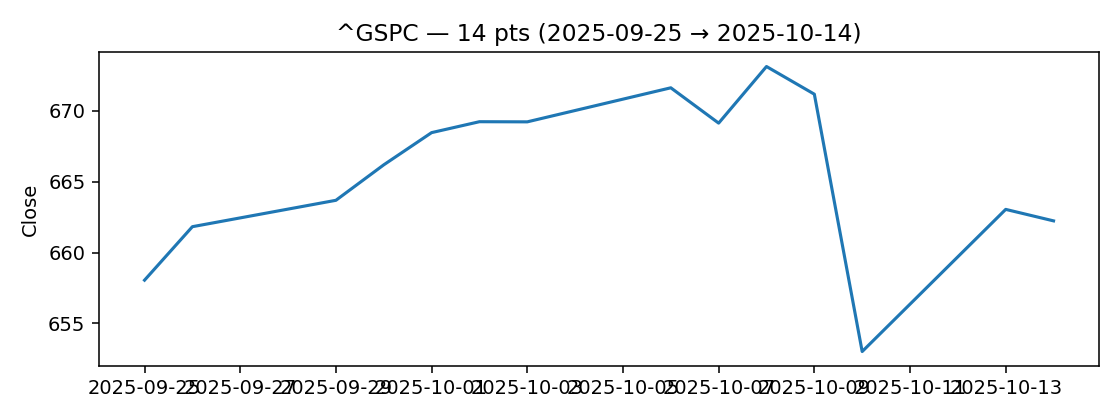
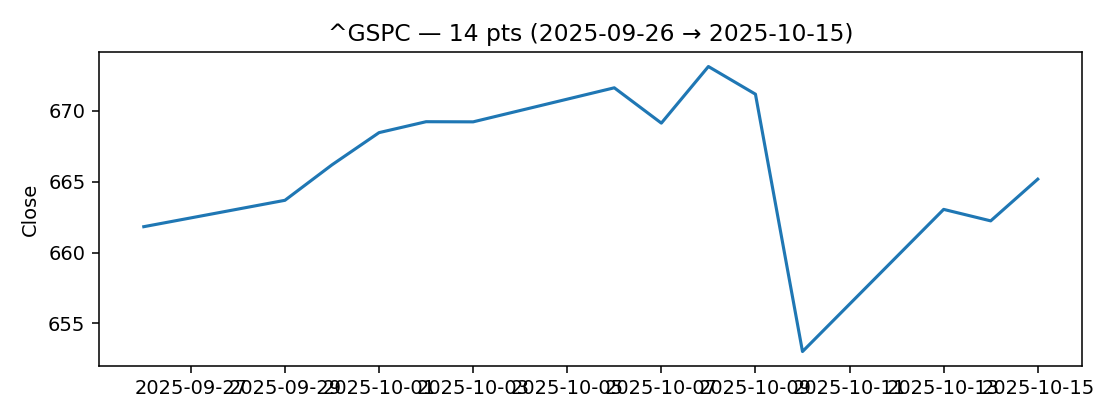
chore: update daily report 2025-10-16 08:45

diff --git a/docs/daily_report.html b/docs/daily_report.html
@@ -108,7 +108,7 @@
   <header>
     <div>
       <h1>Daily Study & News Companion</h1>
-      <div class="sub">2025-10-15 08:11 · TZ: CST</div>
+      <div class="sub">2025-10-16 08:29 · TZ: CST</div>
     </div>
     <button class="btn" id="themeBtn">🌓 Tema</button>
   </header>
@@ -150,11 +150,11 @@
           </div>
           <div class="mkt-body">
             <div class="metrics-row">
-          <div class="kv"><span>Last</span><b>216.39</b></div>
-          <div class="kv"><span>d/d</span><b class="down">-0.81%</b></div>
-          <div class="kv"><span>Mín</span><b>216.37</b></div>
+          <div class="kv"><span>Last</span><b>215.57</b></div>
+          <div class="kv"><span>d/d</span><b class="down">-1.92%</b></div>
+          <div class="kv"><span>Mín</span><b>215.57</b></div>
           <div class="kv"><span>Máx</span><b>227.74</b></div>
-          <div class="kv"><span>σ</span><b>2.98</b></div>
+          <div class="kv"><span>σ</span><b>3.20</b></div>
         </div>
             <div class="chart"><img src="charts/AMZN_close.png" alt="AMZN chart" loading="lazy"/></div>
           </div>
@@ -167,11 +167,11 @@
           </div>
           <div class="mkt-body">
             <div class="metrics-row">
-          <div class="kv"><span>Last</span><b>513.57</b></div>
-          <div class="kv"><span>d/d</span><b class="up">1.29%</b></div>
-          <div class="kv"><span>Mín</span><b>507.03</b></div>
+          <div class="kv"><span>Last</span><b>513.43</b></div>
+          <div class="kv"><span>d/d</span><b class="up">0.39%</b></div>
+          <div class="kv"><span>Mín</span><b>510.96</b></div>
           <div class="kv"><span>Máx</span><b>528.57</b></div>
-          <div class="kv"><span>σ</span><b>5.82</b></div>
+          <div class="kv"><span>σ</span><b>5.22</b></div>
         </div>
             <div class="chart"><img src="charts/MSFT_close.png" alt="MSFT chart" loading="lazy"/></div>
           </div>
@@ -184,30 +184,13 @@
           </div>
           <div class="mkt-body">
             <div class="metrics-row">
-          <div class="kv"><span>Last</span><b>180.03</b></div>
-          <div class="kv"><span>d/d</span><b class="up">1.32%</b></div>
-          <div class="kv"><span>Mín</span><b>177.69</b></div>
+          <div class="kv"><span>Last</span><b>179.83</b></div>
+          <div class="kv"><span>d/d</span><b class="up">0.92%</b></div>
+          <div class="kv"><span>Mín</span><b>178.19</b></div>
           <div class="kv"><span>Máx</span><b>192.57</b></div>
-          <div class="kv"><span>σ</span><b>4.25</b></div>
+          <div class="kv"><span>σ</span><b>4.01</b></div>
         </div>
             <div class="chart"><img src="charts/NVDA_close.png" alt="NVDA chart" loading="lazy"/></div>
-          </div>
-        </div>
-        
-        <div class="mkt-card">
-          <div class="mkt-head">
-            <div class="ticker">TSLA</div>
-            <button class="mini pill" onclick="this.closest('.mkt-card').classList.toggle('big')">↕</button>
-          </div>
-          <div class="mkt-body">
-            <div class="metrics-row">
-          <div class="kv"><span>Last</span><b>429.24</b></div>
-          <div class="kv"><span>d/d</span><b class="up">1.38%</b></div>
-          <div class="kv"><span>Mín</span><b>413.49</b></div>
-          <div class="kv"><span>Máx</span><b>459.46</b></div>
-          <div class="kv"><span>σ</span><b>11.18</b></div>
-        </div>
-            <div class="chart"><img src="charts/TSLA_close.png" alt="TSLA chart" loading="lazy"/></div>
           </div>
         </div>
         
@@ -218,11 +201,11 @@
           </div>
           <div class="mkt-body">
             <div class="metrics-row">
-          <div class="kv"><span>Last</span><b>662.23</b></div>
-          <div class="kv"><span>d/d</span><b class="up">0.64%</b></div>
+          <div class="kv"><span>Last</span><b>665.17</b></div>
+          <div class="kv"><span>d/d</span><b class="up">0.51%</b></div>
           <div class="kv"><span>Mín</span><b>653.02</b></div>
           <div class="kv"><span>Máx</span><b>673.11</b></div>
-          <div class="kv"><span>σ</span><b>5.49</b></div>
+          <div class="kv"><span>σ</span><b>5.07</b></div>
         </div>
             <div class="chart"><img src="charts/^GSPC_close.png" alt="^GSPC chart" loading="lazy"/></div>
           </div>
@@ -250,38 +233,38 @@
             <ul class="news-list">
               <li class="news-item" data-topic="AI">
                 <span class="dot"></span>
-                <a href="https://www.bloomberg.com/news/articles/2025-10-15/walmart-on-path-to-trillion-dollar-status-after-openai-alliance" target="_blank" rel="noreferrer">Walmart on Path to Trillion Dollar Status After OpenAI Alliance</a>
-                <div class="meta">2025-10-15 13:10 · <span class="src">Janet Freund</span></div>
+                <a href="https://www.bloomberg.com/news/articles/2025-10-16/uber-giving-some-us-drivers-option-to-earn-money-from-tasks-like-uploading-menus" target="_blank" rel="noreferrer">Uber Launches Data Tasks as Option for Some US Drivers to Earn Money</a>
+                <div class="meta">2025-10-16 13:29 · <span class="src">Natalie Lung</span></div>
               </li>
             
               <li class="news-item" data-topic="AI">
                 <span class="dot"></span>
-                <a href="https://www.bloomberg.com/news/articles/2025-10-15/bofa-s-four-employee-decline-suggests-bankers-jobs-safe-so-far" target="_blank" rel="noreferrer">BofA’s Four-Employee Decline Suggests Bankers’ Jobs Safe So Far</a>
-                <div class="meta">2025-10-15 12:12 · <span class="src">Jennifer Surane</span></div>
+                <a href="https://www.bloomberg.com/news/articles/2025-10-16/microsoft-wants-us-talking-to-windows-11-with-new-ai-features" target="_blank" rel="noreferrer">Microsoft Wants Us Talking to Windows 11 With New AI Features</a>
+                <div class="meta">2025-10-16 13:00 · <span class="src">Brody Ford, Matt Day</span></div>
               </li>
             
               <li class="news-item" data-topic="AI">
                 <span class="dot"></span>
-                <a href="https://www.bloomberg.com/news/articles/2025-10-15/nvidia-upgraded-at-hsbc-as-ai-suggests-upside-of-nearly-80" target="_blank" rel="noreferrer">Nvidia Upgraded as HSBC Sees AI Driving Nearly 80% Upside</a>
-                <div class="meta">2025-10-15 11:55 · <span class="src">Ryan Vlastelica</span></div>
+                <a href="https://www.bloomberg.com/news/articles/2025-10-16/intel-amd-equity-giveaways-send-stocks-soaring-despite-dilution" target="_blank" rel="noreferrer">Intel, AMD Equity Giveaways Send Stocks Soaring Despite Dilution</a>
+                <div class="meta">2025-10-16 10:48 · <span class="src">Jeran Wittenstein, Carmen Reinicke</span></div>
               </li>
             
               <li class="news-item" data-topic="AI">
                 <span class="dot"></span>
-                <a href="https://www.bloomberg.com/news/articles/2025-10-15/nuclear-startup-to-deploy-pilot-microreactor-at-texas-a-m-campus" target="_blank" rel="noreferrer">Nuclear Startup to Deploy Pilot Microreactor at Texas A&amp;M Campus</a>
-                <div class="meta">2025-10-15 10:00 · <span class="src">Naureen S Malik</span></div>
+                <a href="https://www.bloomberg.com/news/articles/2025-10-16/infosys-narrows-revenue-outlook-as-clients-resume-it-spending" target="_blank" rel="noreferrer">Infosys Lifts Sales Outlook on Hopes of Rebound in IT Spends</a>
+                <div class="meta">2025-10-16 10:48 · <span class="src">Sankalp Phartiyal</span></div>
               </li>
             
               <li class="news-item" data-topic="AI">
                 <span class="dot"></span>
-                <a href="https://www.bloomberg.com/news/articles/2025-10-15/nscale-plans-to-build-massive-texas-ai-data-center-for-microsoft" target="_blank" rel="noreferrer">Microsoft Cuts Fourth Nscale Deal With Texas AI Data Center</a>
-                <div class="meta">2025-10-15 08:28 · <span class="src">Mark Bergen</span></div>
+                <a href="https://www.bloomberg.com/news/articles/2025-10-16/nvidia-partners-in-2-9-billion-australia-data-center-drive" target="_blank" rel="noreferrer">Nvidia Partners in $2.9 Billion Australia Data Center Drive</a>
+                <div class="meta">2025-10-16 04:40 · <span class="src">Keira Wright</span></div>
               </li>
             
               <li class="news-item" data-topic="AI">
                 <span class="dot"></span>
-                <a href="https://www.bloomberg.com/news/articles/2025-10-15/asml-orders-beat-expectations-as-ai-arms-race-boosts-demand" target="_blank" rel="noreferrer">ASML Orders for Cutting-Edge Machines Boom as AI Fuels Demand</a>
-                <div class="meta">2025-10-15 05:04 · <span class="src">Dasha Afanasieva, Sarah Jacob</span></div>
+                <a href="https://www.bloomberg.com/news/articles/2025-10-15/ken-griffin-says-genai-fails-to-help-hedge-funds-produce-alpha" target="_blank" rel="noreferrer">Griffin Says GenAI Fails to Help Hedge Funds Beat Markets</a>
+                <div class="meta">2025-10-15 23:10 · <span class="src">Hema Parmar</span></div>
               </li>
             </ul>
           </div>
@@ -291,38 +274,38 @@
             <ul class="news-list">
               <li class="news-item" data-topic="Fintech">
                 <span class="dot"></span>
-                <a href="https://www.bloomberg.com/news/articles/2025-10-15/us-stocks-rise-as-solid-bank-earnings-overshadow-trade-war-fears" target="_blank" rel="noreferrer">US Stocks Rise as Solid Bank Earnings Overshadow Trade War Fears</a>
-                <div class="meta">2025-10-15 13:55 · <span class="src">Joel Leon</span></div>
+                <a href="https://www.bloomberg.com/news/videos/2025-10-16/fed-s-waller-on-careful-rate-cuts-labor-market-ai-video" target="_blank" rel="noreferrer">Fed’s Waller on Careful Rate Cuts, Labor Market Concerns, AI</a>
+                <div class="meta">2025-10-16 12:46 · <span class="src">www.bloomberg.com</span></div>
               </li>
             
               <li class="news-item" data-topic="Fintech">
                 <span class="dot"></span>
-                <a href="https://www.bloomberg.com/news/videos/2025-10-15/morgan-stanley-bofa-both-beat-earnings-estimates-video" target="_blank" rel="noreferrer">Morgan Stanley, Bank of America Beat Estimates as Trading Activity Surges</a>
-                <div class="meta">2025-10-15 13:43 · <span class="src">www.bloomberg.com</span></div>
+                <a href="https://www.bloomberg.com/news/articles/2025-10-16/varde-backed-spanish-bank-plans-srt-tied-to-credit-card-loans" target="_blank" rel="noreferrer">Varde-Backed Spanish Bank Plans SRT Tied to Credit Card Loans</a>
+                <div class="meta">2025-10-16 12:19 · <span class="src">Esteban Duarte, Jorge Zuloaga</span></div>
               </li>
             
               <li class="news-item" data-topic="Fintech">
                 <span class="dot"></span>
-                <a href="https://www.bloomberg.com/news/articles/2025-10-15/dubai-investments-said-to-tap-hsbc-citi-emirates-nbd-for-unit-s-ipo" target="_blank" rel="noreferrer">Dubai Investments Taps HSBC, Citi, Emirates NBD for Unit’s IPO</a>
-                <div class="meta">2025-10-15 12:21 · <span class="src">Laura Gardner Cuesta, Zainab Fattah</span></div>
+                <a href="https://www.bloomberg.com/news/articles/2025-10-16/ecb-s-dolenc-sees-less-pronounced-inflation-undershoot-next-year" target="_blank" rel="noreferrer">ECB’s Dolenc Sees Less-Pronounced Inflation Undershoot Next Year</a>
+                <div class="meta">2025-10-16 12:16 · <span class="src">Mark Schroers, Alexander Weber</span></div>
               </li>
             
               <li class="news-item" data-topic="Fintech">
                 <span class="dot"></span>
-                <a href="https://www.bloomberg.com/news/articles/2025-10-15/jpmorgan-becomes-latest-wall-street-bank-to-get-saudi-hq-license" target="_blank" rel="noreferrer">JPMorgan Is Latest Wall Street Bank to Get Saudi HQ License</a>
-                <div class="meta">2025-10-15 10:14 · <span class="src">Laura Gardner Cuesta, Nicolas Parasie</span></div>
+                <a href="https://www.bloomberg.com/news/videos/2025-10-16/fed-s-waller-calls-for-cautious-approach-to-rate-cuts-video" target="_blank" rel="noreferrer">Fed’s Waller Calls for Cautious Approach to Rate Cuts</a>
+                <div class="meta">2025-10-16 12:08 · <span class="src">www.bloomberg.com</span></div>
               </li>
             
               <li class="news-item" data-topic="Fintech">
                 <span class="dot"></span>
-                <a href="https://www.bloomberg.com/news/articles/2025-10-15/rbi-sees-rupee-under-speculative-attack-will-intervene-further" target="_blank" rel="noreferrer">RBI Sees Rupee Under Speculative Attack, Will Intervene Further</a>
-                <div class="meta">2025-10-15 09:03 · <span class="src">Anup Roy</span></div>
+                <a href="https://www.bloomberg.com/news/articles/2025-10-16/fintech-glow-raises-65-million-backed-by-apollo-cable-cowboy-malone" target="_blank" rel="noreferrer">Fintech Glow Raises $65 Million Backed by Apollo, ‘Cable Cowboy’ Malone</a>
+                <div class="meta">2025-10-16 11:00 · <span class="src">Jillian Deutsch</span></div>
               </li>
             
               <li class="news-item" data-topic="Fintech">
                 <span class="dot"></span>
-                <a href="https://www.bloomberg.com/news/articles/2025-10-15/funds-chase-new-private-credit-money-for-emerging-market-bets" target="_blank" rel="noreferrer">Private Credit Gold Rush Is Spreading to Emerging Markets</a>
-                <div class="meta">2025-10-15 06:30 · <span class="src">Selcuk Gokoluk</span></div>
+                <a href="https://www.bloomberg.com/news/articles/2025-10-15/fcc-moves-to-boot-major-hong-kong-carrier-from-us-networks" target="_blank" rel="noreferrer">US Weighs Ban on Richard Li’s HKT as China Tensions Rise</a>
+                <div class="meta">2025-10-15 22:01 · <span class="src">Shirley Zhao, Kelcee Griffis</span></div>
               </li>
             </ul>
           </div>
@@ -332,38 +315,38 @@
             <ul class="news-list">
               <li class="news-item" data-topic="General">
                 <span class="dot"></span>
-                <a href="https://www.bloomberg.com/news/articles/2025-10-15/tycoon-benko-sentenced-to-two-years-for-insurance-fraud-afp" target="_blank" rel="noreferrer">Tycoon Benko Sentenced to Two Years For Insurance Fraud: AFP</a>
-                <div class="meta">2025-10-15 13:39 · <span class="src">Jeremy Hodges</span></div>
+                <a href="https://www.bloomberg.com/news/articles/2025-10-16/europe-s-ipo-wave-puts-discount-math-at-top-of-buyer-checklists" target="_blank" rel="noreferrer">Europe’s IPO Wave Puts Discount Math at Top of Buyer Checklists</a>
+                <div class="meta">2025-10-16 13:28 · <span class="src">Pablo Mayo Cerqueiro</span></div>
               </li>
             
               <li class="news-item" data-topic="General">
                 <span class="dot"></span>
-                <a href="https://www.bloomberg.com/news/videos/2025-10-15/pantheon-s-debono-on-french-markets-french-elections-video" target="_blank" rel="noreferrer">Pantheon's Debono: Election Doesn't Mean French Markets Will Get Back on Track</a>
-                <div class="meta">2025-10-15 13:39 · <span class="src">www.bloomberg.com</span></div>
+                <a href="https://www.bloomberg.com/news/articles/2025-10-16/miami-office-for-citadel-microsoft-gains-25-000-members-club" target="_blank" rel="noreferrer">Miami Office for Citadel, Microsoft Gains $25,000 Members Club</a>
+                <div class="meta">2025-10-16 13:14 · <span class="src">Anna J Kaiser</span></div>
               </li>
             
               <li class="news-item" data-topic="General">
                 <span class="dot"></span>
-                <a href="https://www.bloomberg.com/news/articles/2025-10-15/uk-and-china-locked-in-stand-off-over-each-other-s-embassy-plans" target="_blank" rel="noreferrer">UK and China Locked in Stand-Off Over Each Other’s Embassy Plans</a>
-                <div class="meta">2025-10-15 13:39 · <span class="src">Ellen Milligan</span></div>
+                <a href="https://www.bloomberg.com/news/videos/2025-10-16/us-energy-secretary-chris-wright-on-rising-energy-costs-video" target="_blank" rel="noreferrer">AI Infrastructure Will Make Electricity More Affordable, US Energy Secretary Says</a>
+                <div class="meta">2025-10-16 13:12 · <span class="src">www.bloomberg.com</span></div>
               </li>
             
               <li class="news-item" data-topic="General">
                 <span class="dot"></span>
-                <a href="https://www.bloomberg.com/news/articles/2025-10-15/blackrock-s-gip-buys-aligned-data-centers-in-40-billion-ai-bet" target="_blank" rel="noreferrer">BlackRock, MGX Make $40 Billion Bet on AI Boom With Aligned Data Centers Deal</a>
-                <div class="meta">2025-10-15 11:30 · <span class="src">Ryan Gould, Michelle F Davis, Matthew Monks, Manuel Baigorri</span></div>
+                <a href="https://www.bloomberg.com/news/articles/2025-10-16/fed-s-waller-calls-for-careful-rate-cuts-to-support-labor-market" target="_blank" rel="noreferrer">Fed’s Waller Calls for Careful Cuts, Miran Wants Bigger Move</a>
+                <div class="meta">2025-10-16 11:53 · <span class="src">Jonnelle Marte, Maria Eloisa Capurro, Amara Omeokwe</span></div>
               </li>
             
               <li class="news-item" data-topic="General">
                 <span class="dot"></span>
-                <a href="https://www.bloomberg.com/news/articles/2025-10-15/us-two-year-yields-near-lowest-since-2022-on-rates-trade-angst" target="_blank" rel="noreferrer">US Two-Year Yields Hover Near Lows Seen in April Tariff Turmoil</a>
-                <div class="meta">2025-10-15 10:17 · <span class="src">Naomi Tajitsu</span></div>
+                <a href="https://www.bloomberg.com/news/articles/2025-10-16/indian-refiners-to-take-less-russian-oil-after-trump-comments" target="_blank" rel="noreferrer">India Refiners to Trim Russia Oil Buying as Trump Sows Confusion</a>
+                <div class="meta">2025-10-16 05:37 · <span class="src">Rakesh Sharma, Yongchang Chin</span></div>
               </li>
             
               <li class="news-item" data-topic="General">
                 <span class="dot"></span>
-                <a href="https://www.bloomberg.com/news/articles/2025-10-14/stock-market-today-dow-s-p-live-updates" target="_blank" rel="noreferrer">Stocks Extend Gains on Bessent’s Trade Remarks: Markets Wrap</a>
-                <div class="meta">2025-10-14 22:21 · <span class="src">Rita Nazareth</span></div>
+                <a href="https://www.bloomberg.com/news/articles/2025-10-15/stock-market-today-dow-s-p-live-updates" target="_blank" rel="noreferrer">Stocks Get Tech Boost as TSMC Rekindles AI Wagers: Markets Wrap</a>
+                <div class="meta">2025-10-15 22:27 · <span class="src">Rita Nazareth</span></div>
               </li>
             </ul>
           </div>
@@ -373,38 +356,38 @@
             <ul class="news-list">
               <li class="news-item" data-topic="Machine Learning">
                 <span class="dot"></span>
-                <a href="https://www.bloomberg.com/news/articles/2025-10-15/russian-fuel-exports-sink-to-fresh-wartime-low-on-refinery-woes" target="_blank" rel="noreferrer">Russian Fuel Exports Sink to Fresh Wartime Low on Refinery Woes</a>
-                <div class="meta">2025-10-15 13:35 · <span class="src">Prejula Prem</span></div>
+                <a href="https://www.bloomberg.com/news/videos/2025-10-16/premium-travel-is-driving-demand-united-airlines-ceo-says" target="_blank" rel="noreferrer">Premium Travel Is Driving Demand, United Airlines CEO Says</a>
+                <div class="meta">2025-10-16 13:22 · <span class="src">www.bloomberg.com</span></div>
               </li>
             
               <li class="news-item" data-topic="Machine Learning">
                 <span class="dot"></span>
-                <a href="https://www.bloomberg.com/news/articles/2025-10-15/global-public-debt-set-to-top-post-wwii-levels-by-2029-imf-says" target="_blank" rel="noreferrer">Global Public Debt Set to Top Post-WWII Levels by 2029, IMF Says</a>
-                <div class="meta">2025-10-15 12:45 · <span class="src">Jorgelina Do Rosario</span></div>
+                <a href="https://www.bloomberg.com/news/articles/2025-10-16/driverless-waymos-set-to-deliver-doordash-orders-in-phoenix" target="_blank" rel="noreferrer">Driverless Waymos Set to Deliver DoorDash Orders in Phoenix</a>
+                <div class="meta">2025-10-16 13:00 · <span class="src">Natalie Lung</span></div>
               </li>
             
               <li class="news-item" data-topic="Machine Learning">
                 <span class="dot"></span>
-                <a href="https://www.bloomberg.com/news/videos/2025-10-15/morgan-stanley-stock-trading-revenue-soars-in-3q-video" target="_blank" rel="noreferrer">Morgan Stanley Stock Trading Revenue Soars in 3Q</a>
-                <div class="meta">2025-10-15 12:27 · <span class="src">www.bloomberg.com</span></div>
+                <a href="https://www.bloomberg.com/news/articles/2025-10-16/manpowergroup-returns-to-growth-showing-stable-jobs-market" target="_blank" rel="noreferrer">ManpowerGroup Returns to Growth, Showing Stable Jobs Market</a>
+                <div class="meta">2025-10-16 12:09 · <span class="src">Rachel Phua</span></div>
               </li>
             
               <li class="news-item" data-topic="Machine Learning">
                 <span class="dot"></span>
-                <a href="https://www.bloomberg.com/news/articles/2025-10-15/upstart-market-firm-wants-investors-trading-sports-hot-streaks" target="_blank" rel="noreferrer">Upstart Market Firm Wants Investors Trading Sports Hot Streaks</a>
-                <div class="meta">2025-10-15 11:30 · <span class="src">Katherine Doherty</span></div>
+                <a href="https://www.bloomberg.com/news/videos/2025-10-16/carlyle-s-thomas-on-ai-s-impact-on-the-fed-us-economy-video" target="_blank" rel="noreferrer">Carlyle’s Thomas on AI’s Impact on the Fed Policy, US Economy</a>
+                <div class="meta">2025-10-16 11:53 · <span class="src">www.bloomberg.com</span></div>
               </li>
             
               <li class="news-item" data-topic="Machine Learning">
                 <span class="dot"></span>
-                <a href="https://www.bloomberg.com/news/articles/2025-10-15/citi-sells-bonds-in-europe-straight-after-strong-earnings-report" target="_blank" rel="noreferrer">Citi Set to Raise €2.75 Billion From Bond Offering in Europe</a>
-                <div class="meta">2025-10-15 08:40 · <span class="src">Colin Keatinge</span></div>
+                <a href="https://www.bloomberg.com/news/videos/2025-10-16/the-opening-trade-10-16-video" target="_blank" rel="noreferrer">Nestlé to Slash 16K Jobs, TSMC Boosts Confidence in AI ‘Megatrend’ | The Opening Trade 10/16</a>
+                <div class="meta">2025-10-16 11:49 · <span class="src">www.bloomberg.com</span></div>
               </li>
             
               <li class="news-item" data-topic="Machine Learning">
                 <span class="dot"></span>
-                <a href="https://www.bloomberg.com/news/articles/2025-10-14/grindr-confirms-possible-take-private-plan-via-debt-financing" target="_blank" rel="noreferrer">Grindr Confirms Possible Take-Private Plan From Top Holders</a>
-                <div class="meta">2025-10-14 18:57 · <span class="src">Natalie Lung</span></div>
+                <a href="https://www.bloomberg.com/news/articles/2025-10-16/europe-s-biggest-firms-soar-on-earnings-setting-tone-for-season" target="_blank" rel="noreferrer">Europe’s Biggest Firms Soar on Earnings, Setting Tone for Season</a>
+                <div class="meta">2025-10-16 11:21 · <span class="src">Sagarika Jaisinghani, Maggie Shiltagh</span></div>
               </li>
             </ul>
           </div>
@@ -414,7 +397,7 @@
     </main>
   </div>
 
-  <footer>Generado localmente · 2025-10-15 08:11</footer>
+  <footer>Generado localmente · 2025-10-16 08:29</footer>
 
   <script>
     'use strict';
